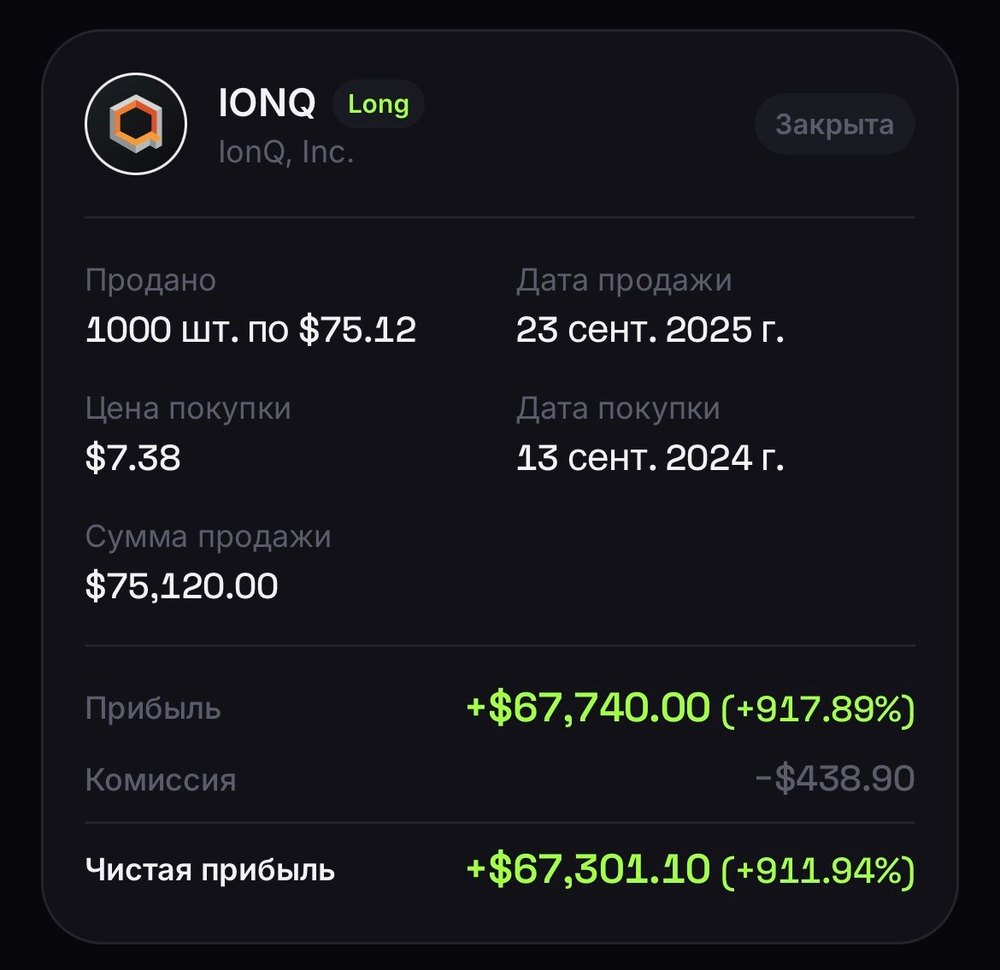
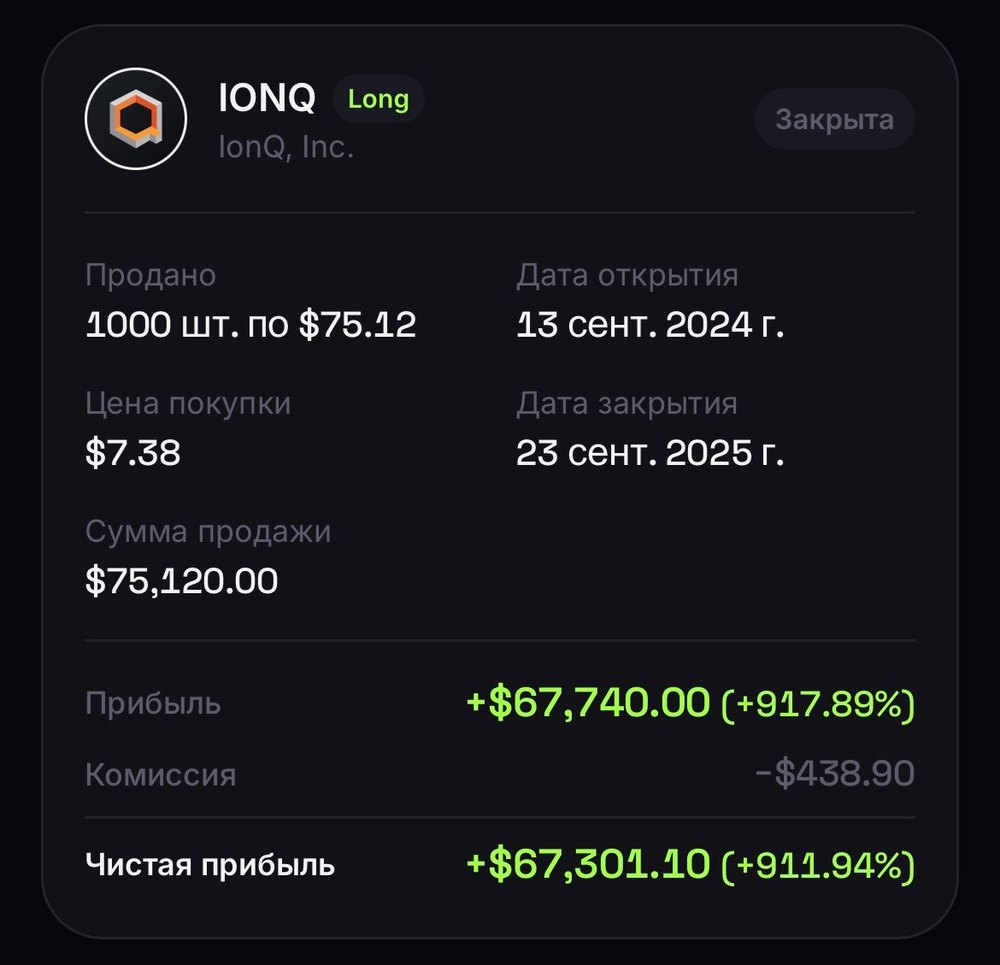
Update trade screenshot, refresh social preview image, add hidden reviews section

diff --git a/src/app/page.tsx b/src/app/page.tsx
@@ -13,6 +13,7 @@ import {
   lifetime,
   steps,
   location,
+  reviews,
   forWhom,
   disclaimer,
 } from "@/lib/content";
@@ -411,6 +412,34 @@ export default function Home() {
             </Reveal>
           </div>
         </section>
+
+        {/* REVIEWS */}
+        {reviews.show && (
+          <section className="section section-alt" id="reviews">
+            <div className="container">
+              <Reveal>
+                <span className="eyebrow">{reviews.eyebrow}</span>
+                <h2>{reviews.title}</h2>
+              </Reveal>
+              <div className="grid-2 reviews">
+                {reviews.items.map((r, i) => (
+                  <Reveal key={`${r.name}-${i}`} delay={i * 90}>
+                    <figure className="review card">
+                      <blockquote>{r.text}</blockquote>
+                      <figcaption>
+                        <span className="avatar" aria-hidden>{r.name.replace(/[^\p{L}]/gu, "").charAt(0)}</span>
+                        <span>
+                          <b>{r.name}</b>
+                          <small>{r.city}</small>
+                        </span>
+                      </figcaption>
+                    </figure>
+                  </Reveal>
+                ))}
+              </div>
+            </div>
+          </section>
+        )}
 
         {/* FAQ */}
         <section className="section" id="faq">

diff --git a/src/lib/content.ts b/src/lib/content.ts
@@ -218,3 +218,17 @@ export const location = {
   text: "Программа проходит на территории Эгейского университета (Ege Üniversitesi) в Измире: зелёный кампус, море рядом и атмосфера, в которой удобно сосредоточиться на учёбе и новых знакомствах.",
   chips: ["Турция", "Измир", "Эгейский университет"],
 };
+
+// Отзывы реальных участников. Раздел скрыт, пока show: false.
+// Впишите настоящие отзывы (с согласия авторов) вместо заглушек и поставьте show: true.
+export const reviews = {
+  show: false,
+  eyebrow: "Отзывы",
+  title: "Что говорят участники",
+  items: [
+    { name: "[Имя]", city: "[Город]", text: "[Текст отзыва]" },
+    { name: "[Имя]", city: "[Город]", text: "[Текст отзыва]" },
+    { name: "[Имя]", city: "[Город]", text: "[Текст отзыва]" },
+    { name: "[Имя]", city: "[Город]", text: "[Текст отзыва]" },
+  ],
+};

diff --git a/src/app/globals.css b/src/app/globals.css
@@ -285,3 +285,12 @@ h2.wide { max-width: 30ch; }
 }
 
 @media (max-width: 1100px) { .nav { display: none; } }
+
+/* reviews */
+.review { margin: 0; display: flex; flex-direction: column; justify-content: space-between; gap: 1.6rem; position: relative; }
+.review::before { content: "\201C"; position: absolute; top: 10px; right: 22px; font-family: var(--font-display), serif; font-size: 5rem; line-height: 1; color: var(--accent); opacity: .18; }
+.review blockquote { color: var(--text); font-size: 1.05rem; line-height: 1.65; }
+.review figcaption { display: flex; align-items: center; gap: .9rem; }
+.review figcaption b { display: block; }
+.review figcaption small { color: var(--muted); font-size: .85rem; }
+.avatar { display: grid; place-items: center; width: 46px; height: 46px; border-radius: 50%; background: var(--accent-soft); color: var(--accent); font-weight: 700; }

diff --git a/src/app/layout.tsx b/src/app/layout.tsx
@@ -29,13 +29,13 @@ export const metadata: Metadata = {
     locale: "ru_RU",
     title,
     description,
-    images: [{ url: "/og.png", width: 1200, height: 630, alt: "University of Budget Projecting" }],
+    images: [{ url: "/og.png?v=3", width: 1200, height: 630, alt: "University of Budget Projecting" }],
   },
   twitter: {
     card: "summary_large_image",
     title,
     description,
-    images: ["/og.png"],
+    images: ["/og.png?v=3"],
   },
 };
 
